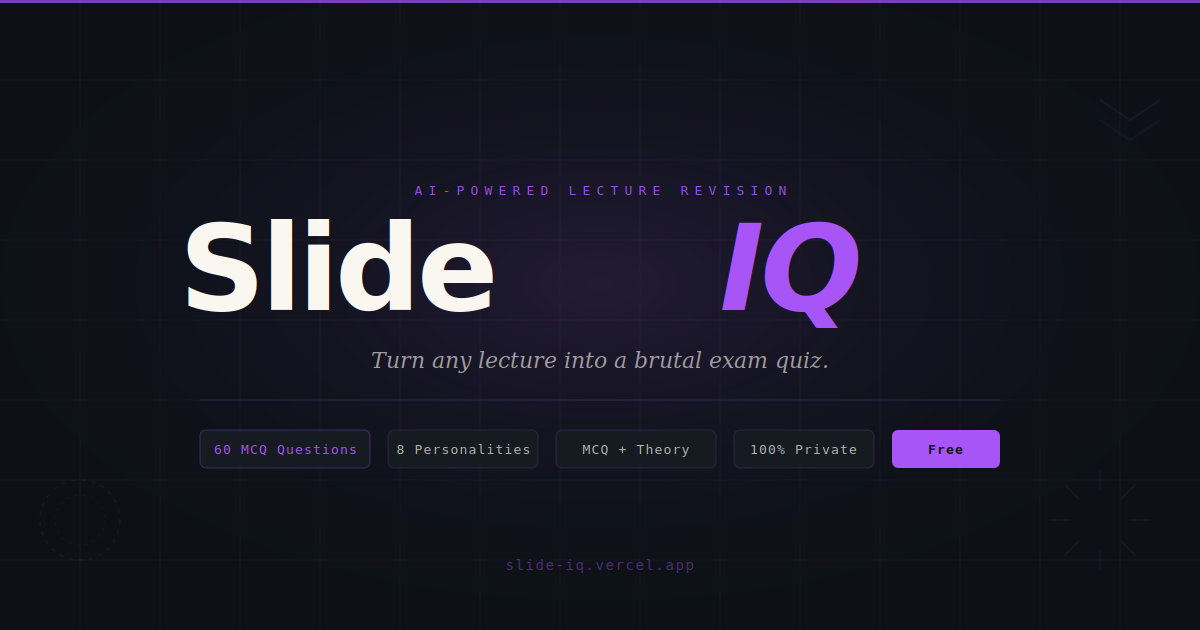
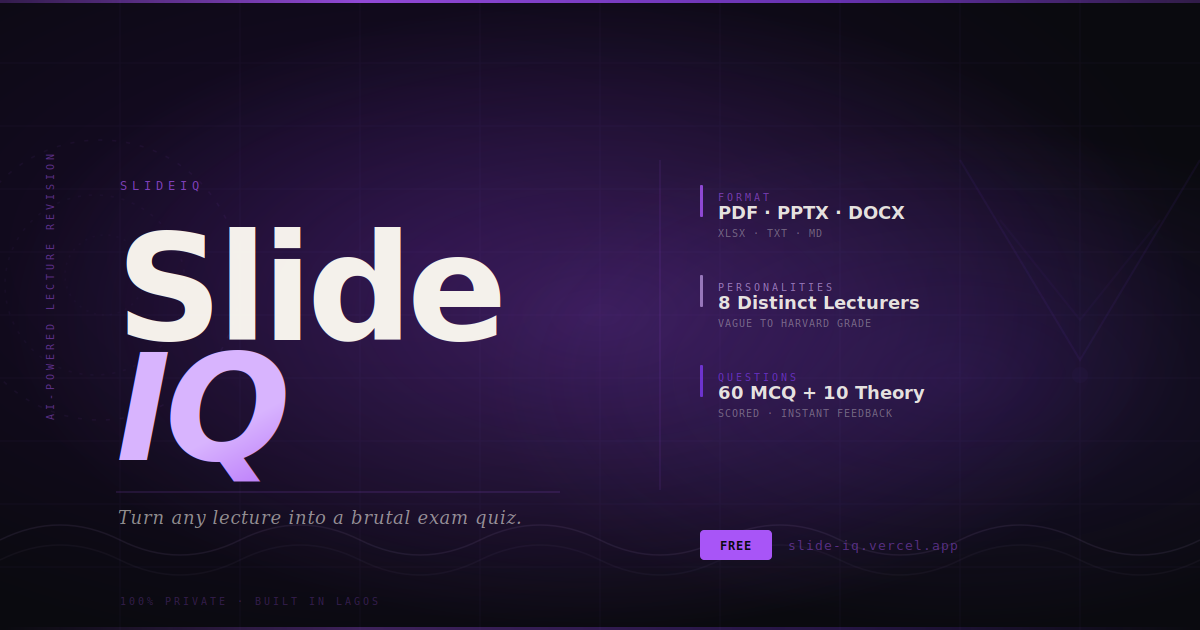
feat: new OG image and deep README

diff --git a/README.md b/README.md
@@ -1,0 +1,214 @@
+<div align="center">
+
+<img src="public/og-image.png" alt="SlideIQ" width="100%"/>
+
+<br/>
+<br/>
+
+**Turn any lecture into a brutal exam quiz — in seconds.**
+
+[![Live](https://img.shields.io/badge/Live-slide--iq.vercel.app-a855f7?style=flat-square&logo=vercel&logoColor=white)](https://slide-iq.vercel.app)
+[![Built with React](https://img.shields.io/badge/React-18-61dafb?style=flat-square&logo=react&logoColor=white)](https://react.dev)
+[![Firebase](https://img.shields.io/badge/Firebase-10-orange?style=flat-square&logo=firebase&logoColor=white)](https://firebase.google.com)
+[![Powered by Claude](https://img.shields.io/badge/Powered%20by-Claude%20Sonnet-a855f7?style=flat-square)](https://anthropic.com)
+
+</div>
+
+---
+
+## What it does
+
+SlideIQ reads your lecture slides and turns them into a full quiz — MCQ, theory questions, and instant personality-voiced feedback — all in your browser. Nothing leaves your device except the quiz prompt.
+
+Upload a PDF, PPTX, DOCX, XLSX, TXT, or Markdown file. Pick one of 8 lecturers. Get up to 60 MCQ questions and 10 theory questions generated by Claude Sonnet in seconds. Your score, answers, and model answers are saved to your account forever.
+
+---
+
+## Features
+
+| Feature | Detail |
+|---|---|
+| **Multi-format upload** | PDF, PPTX, DOCX, XLSX, TXT, MD |
+| **8 lecturer personalities** | Vague, Harsh, Out to Fail You, Nice, Very Easy, Reassuring, Cheap, Harvard Grade |
+| **MCQ + Theory** | Up to 60 multiple choice and 10 theory questions per quiz |
+| **Instant feedback** | Personality-voiced feedback after every answer |
+| **Quiz history** | All results saved to Firestore, reviewable anytime |
+| **Export results** | Download quiz as PDF or Word document |
+| **Re-download slides** | PDFs stored locally in IndexedDB for re-download |
+| **100% private** | Text extracted in-browser, slides never sent to any server |
+
+---
+
+## Personalities
+
+Each lecturer has a distinct voice, question style, and feedback personality.
+
+| Personality | Vibe |
+|---|---|
+| **Vague** | Wanders the topic. You'll be guessing what was even asked. |
+| **Harsh** | Zero hand-holding. Blunt, cutting, demanding. |
+| **Out to Fail You** | Trick questions, traps, ambiguous phrasing. Designed to expose weakness. |
+| **Nice** | Warm, gentle, celebrates effort. Redirects wrong answers kindly. |
+| **Very Easy** | Confidence-booster mode. Never challenges. |
+| **Reassuring** | Picks you up after a fall. Reframes mistakes as growth. |
+| **Cheap** | Recycled questions, lazy phrasing. Probably wrote this on the bus. |
+| **Harvard Grade** | Elite benchmarking. Mastery is the floor, not the goal. |
+
+---
+
+## Stack
+
+```
+React 18          Frontend framework
+Vite              Build tool
+Framer Motion     Animations
+Firebase Auth     Google OAuth
+Firestore         Quiz history storage
+Claude Sonnet     AI quiz generation
+pdfjs-dist        PDF text extraction
+mammoth           DOCX extraction
+jszip             PPTX extraction
+SheetJS           XLSX extraction
+jsPDF             PDF export
+html2canvas       PDF rendering
+```
+
+---
+
+## Local setup
+
+```bash
+git clone https://github.com/Astronomox/SlideIQ.git
+cd SlideIQ
+npm install
+```
+
+Create `.env`:
+
+```env
+VITE_FIREBASE_API_KEY=your_key
+VITE_FIREBASE_AUTH_DOMAIN=your_project.firebaseapp.com
+VITE_FIREBASE_PROJECT_ID=your_project_id
+VITE_FIREBASE_MESSAGING_SENDER_ID=your_sender_id
+VITE_FIREBASE_APP_ID=your_app_id
+VITE_ANTHROPIC_API_KEY=your_anthropic_key
+```
+
+```bash
+npm run dev
+```
+
+---
+
+## How it works
+
+```
+1. Upload lecture file
+      PDF text extracted in-browser via pdfjs / mammoth / jszip / SheetJS
+      Never uploaded to any server
+
+2. Choose personality
+      8 lecturers with distinct voices
+
+3. Configure quiz
+      1–60 MCQ questions
+      0–10 theory questions
+
+4. Claude generates
+      Explanation of lecture content in lecturer voice
+      MCQ with 4 options, exactly one correct
+      Theory questions with model answers
+
+5. Take the quiz
+      MCQ with instant feedback overlay
+      Theory with textarea and model answer reveal
+      Progress tracked throughout
+
+6. Score screen
+      Percentage, grade, personality remark
+      Full MCQ breakdown
+
+7. History saved
+      All results stored in Firestore
+      Reviewable, downloadable as PDF or DOCX
+```
+
+---
+
+## Project structure
+
+```
+src/
+  api/
+    claude.js          Claude API — quiz generation and feedback
+  components/
+    History/           Quiz review panel, download modal
+    Icons/             SVG icon system and personality glyphs
+    Layout/            Sidebar, recents, toast notifications
+    PersonalitySelector/  8 personality cards
+    QuestionModal/     MCQ and theory quiz interface
+    QuizMode/          Explanation screen before quiz
+    ScoreScreen/       Results and grade screen
+    Upload/            Multi-format file upload zone
+  context/
+    AuthContext        Firebase auth state
+    QuizContext        Active quiz session state
+  hooks/
+    useIsMobile        Responsive breakpoint
+    usePDFStore        IndexedDB for local file storage
+    useQuizHistory     Firestore quiz results CRUD
+    useUploads         Firestore upload records CRUD
+  pages/
+    Dashboard          3-step quiz creation flow
+    History            Quiz history page
+    Login              Google OAuth entry
+  firebase/
+    config.js          Firebase initialisation
+public/
+  landing.html         Standalone marketing page
+  og-image.png         Social preview image
+```
+
+---
+
+## Firestore rules
+
+```
+rules_version = '2';
+service cloud.firestore {
+  match /databases/{database}/documents {
+    match /uploads/{doc} {
+      allow read, write: if request.auth != null && request.auth.uid == resource.data.uid;
+      allow create: if request.auth != null;
+    }
+    match /quizHistory/{doc} {
+      allow read, write: if request.auth != null && request.auth.uid == resource.data.uid;
+      allow create: if request.auth != null;
+    }
+  }
+}
+```
+
+---
+
+## Deploy to Vercel
+
+```bash
+# Add environment variables in Vercel dashboard first
+# Settings > Environment Variables
+
+vercel --prod
+```
+
+Then add your Vercel domain to Firebase Console under:
+**Authentication > Settings > Authorized domains**
+
+---
+
+<div align="center">
+
+Built by [Abdullahi Oriola](https://github.com/Astronomox) — Data Science student at UNILAG, building AI products.
+
+[slide-iq.vercel.app](https://slide-iq.vercel.app)
+
+</div>
